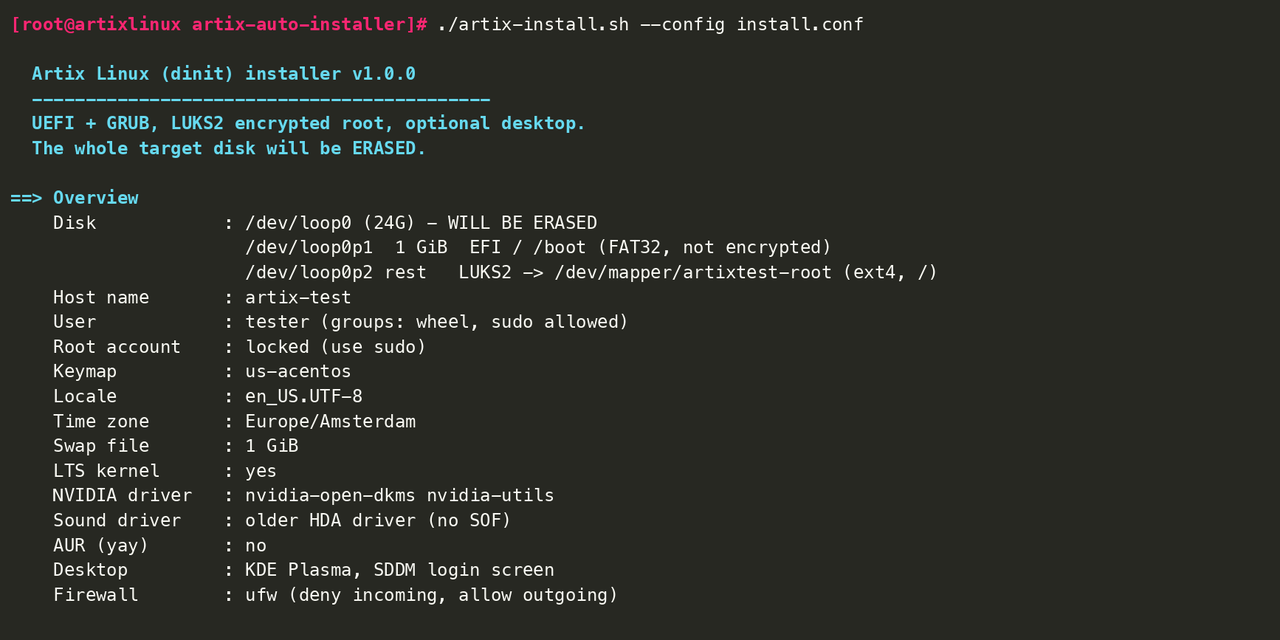
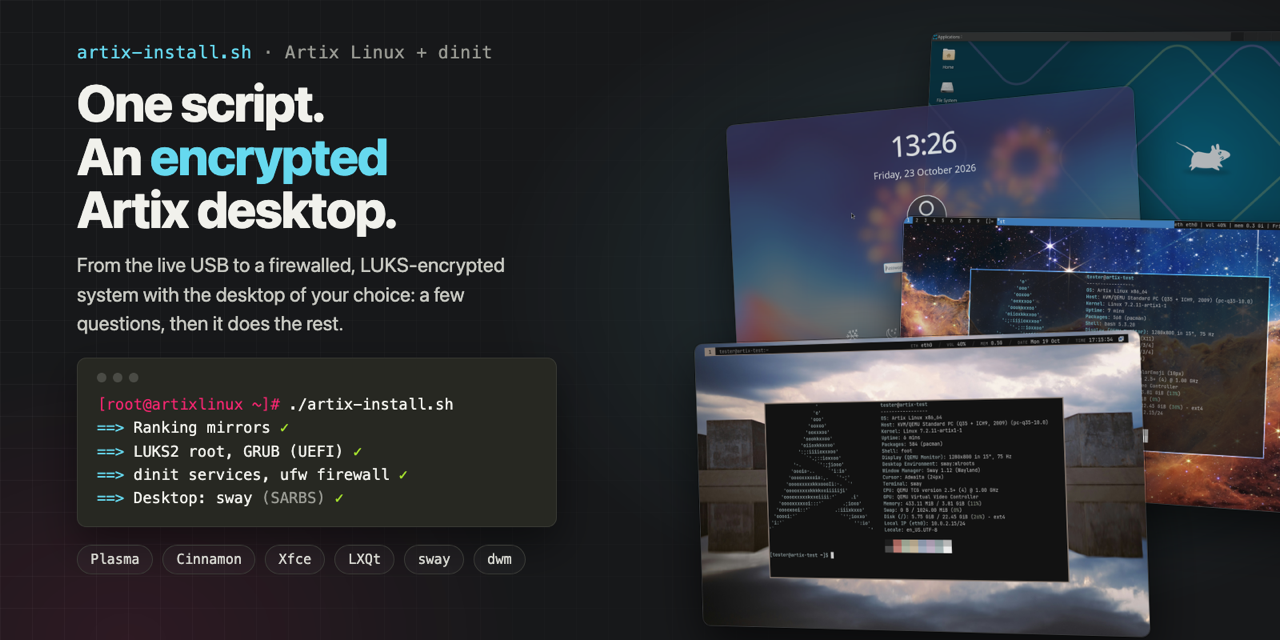
New preview image

diff --git a/README.md b/README.md
@@ -1,4 +1,7 @@
 # Artix Auto Installer
+
+![artix-install.sh: one script for an encrypted Artix desktop, with the sway, dwm, Plasma and Xfce desktops it installs](assets/hero.png)
+
 Personal script for installing Artix Linux with Dinit on UEFI PCs/laptops.
 
 ![The installer installing Artix with KDE Plasma, then booting, unlocking the disk and logging in to Plasma (sped up)](assets/install-demo.gif)
